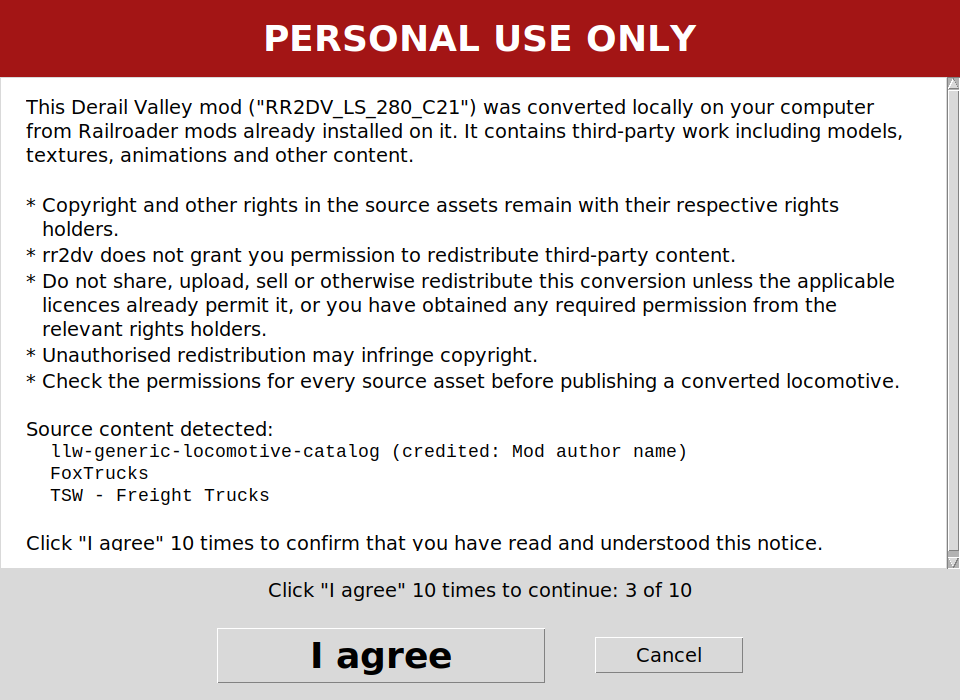
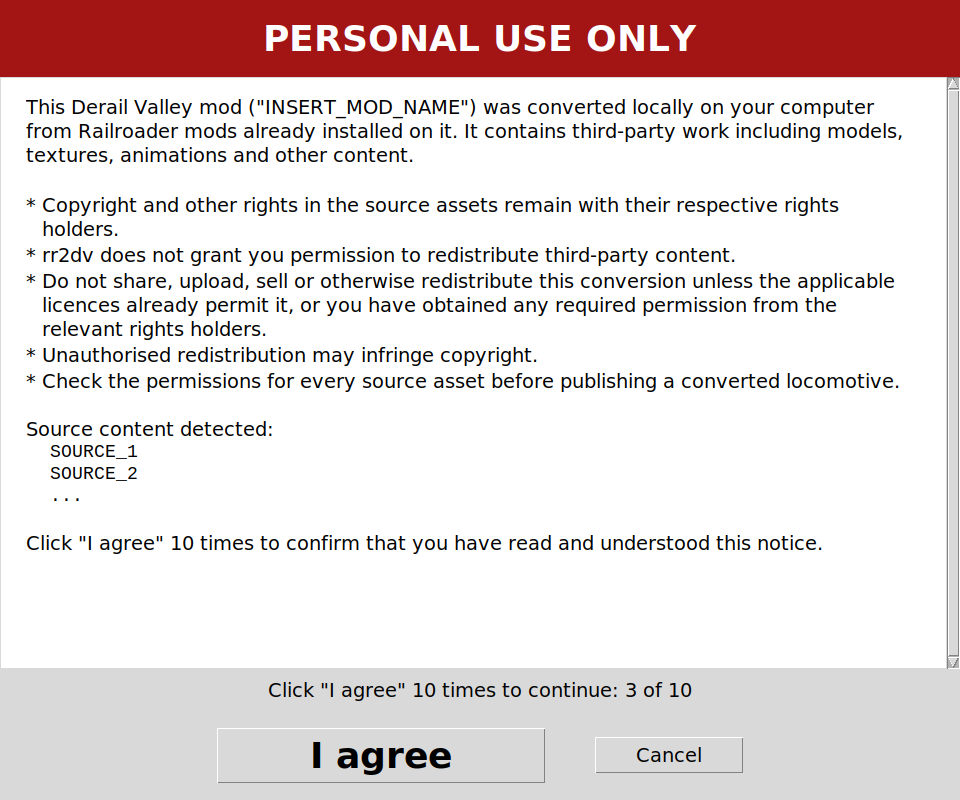
Generic notice screenshot for the README; taller notice window
The README image now shows the placeholders INSERT_MOD_NAME and SOURCE_1,
SOURCE_2, ... instead of a real pack. The window takes 80% of the screen
height so the closing line is not cut off.

Claude-Session: https://claude.ai/code/session_01T9zQZgYgCmD1FwiCd7LkmT

diff --git a/src/rr2dv/consent.py b/src/rr2dv/consent.py
@@ -103,7 +103,7 @@ def ask(pack: str, sources: Sequence[str]) -> bool:
     agreed = {"value": False}
     root.title(TITLE)
     root.attributes("-topmost", True)
-    width, height = int(root.winfo_screenwidth() * 0.6), int(root.winfo_screenheight() * 0.7)
+    width, height = int(root.winfo_screenwidth() * 0.6), int(root.winfo_screenheight() * 0.8)
     root.geometry(f"{width}x{height}+{(root.winfo_screenwidth() - width) // 2}+{(root.winfo_screenheight() - height) // 2}")
     root.minsize(640, 480)
     heading = tkfont.Font(size=26, weight="bold")
